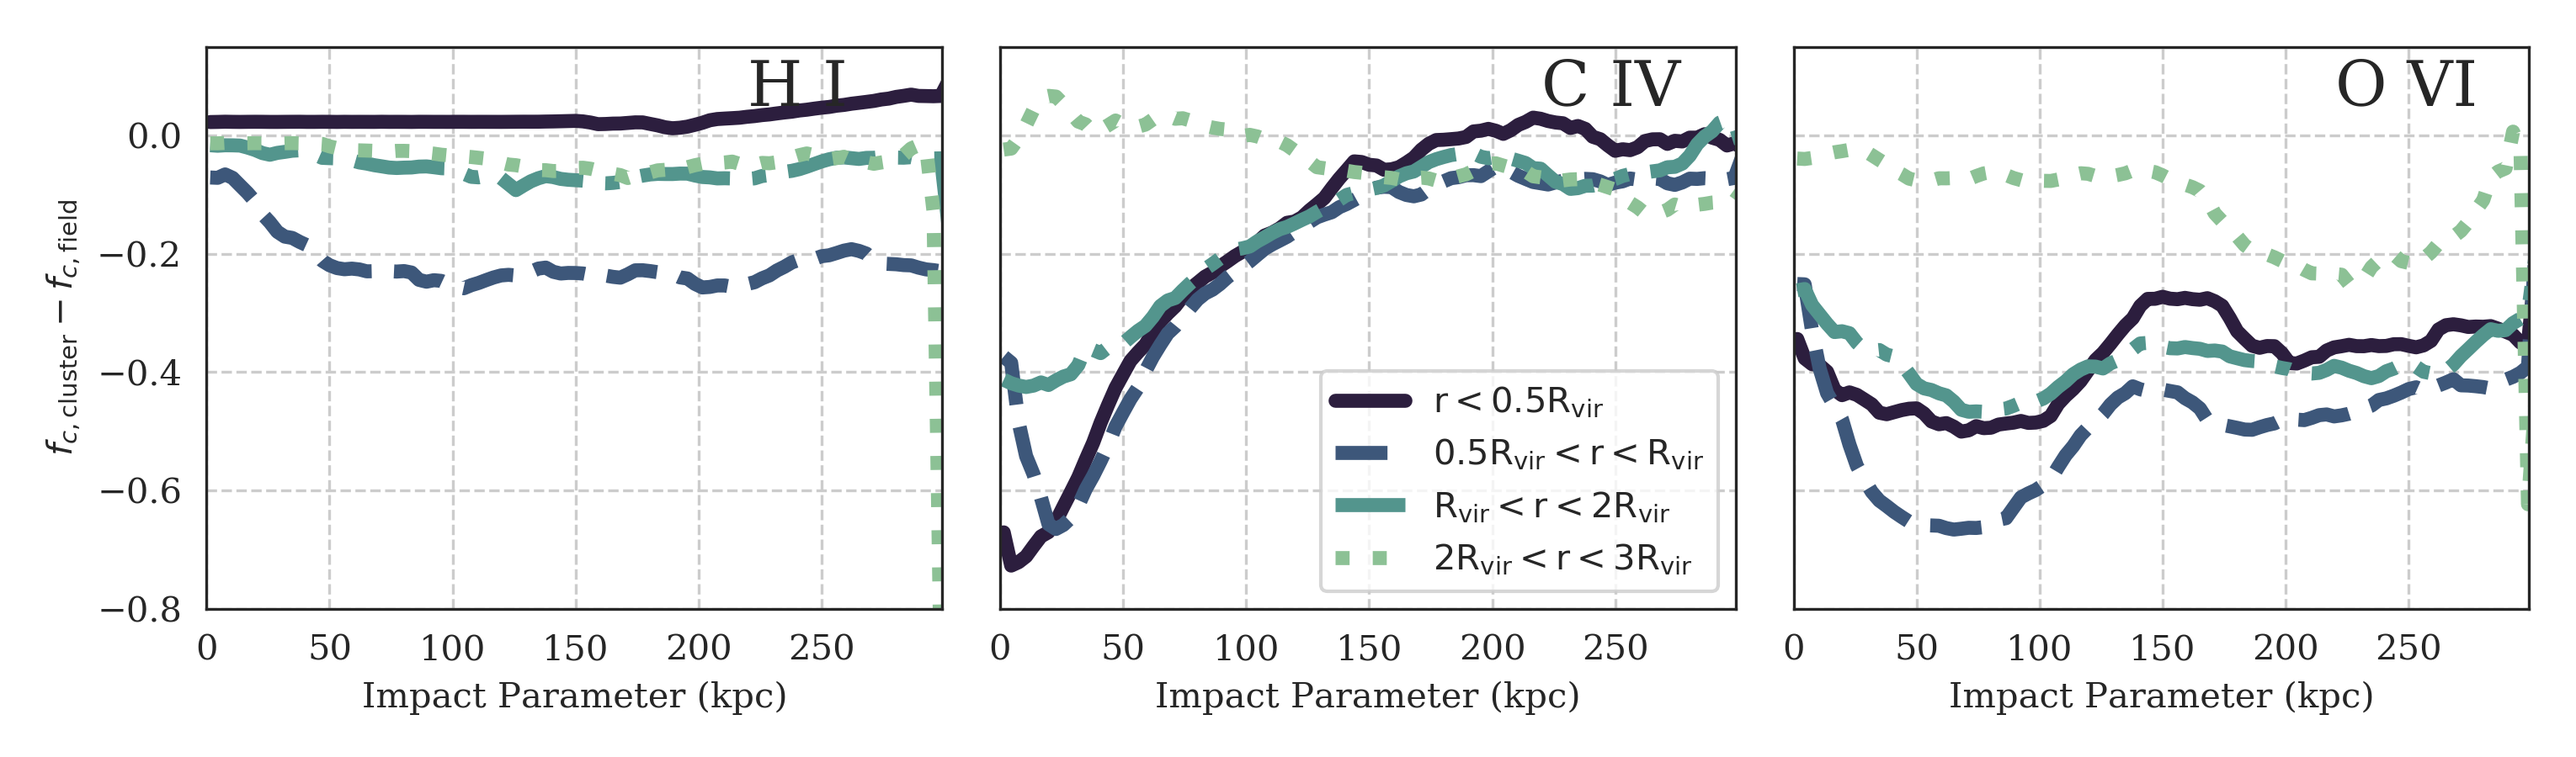
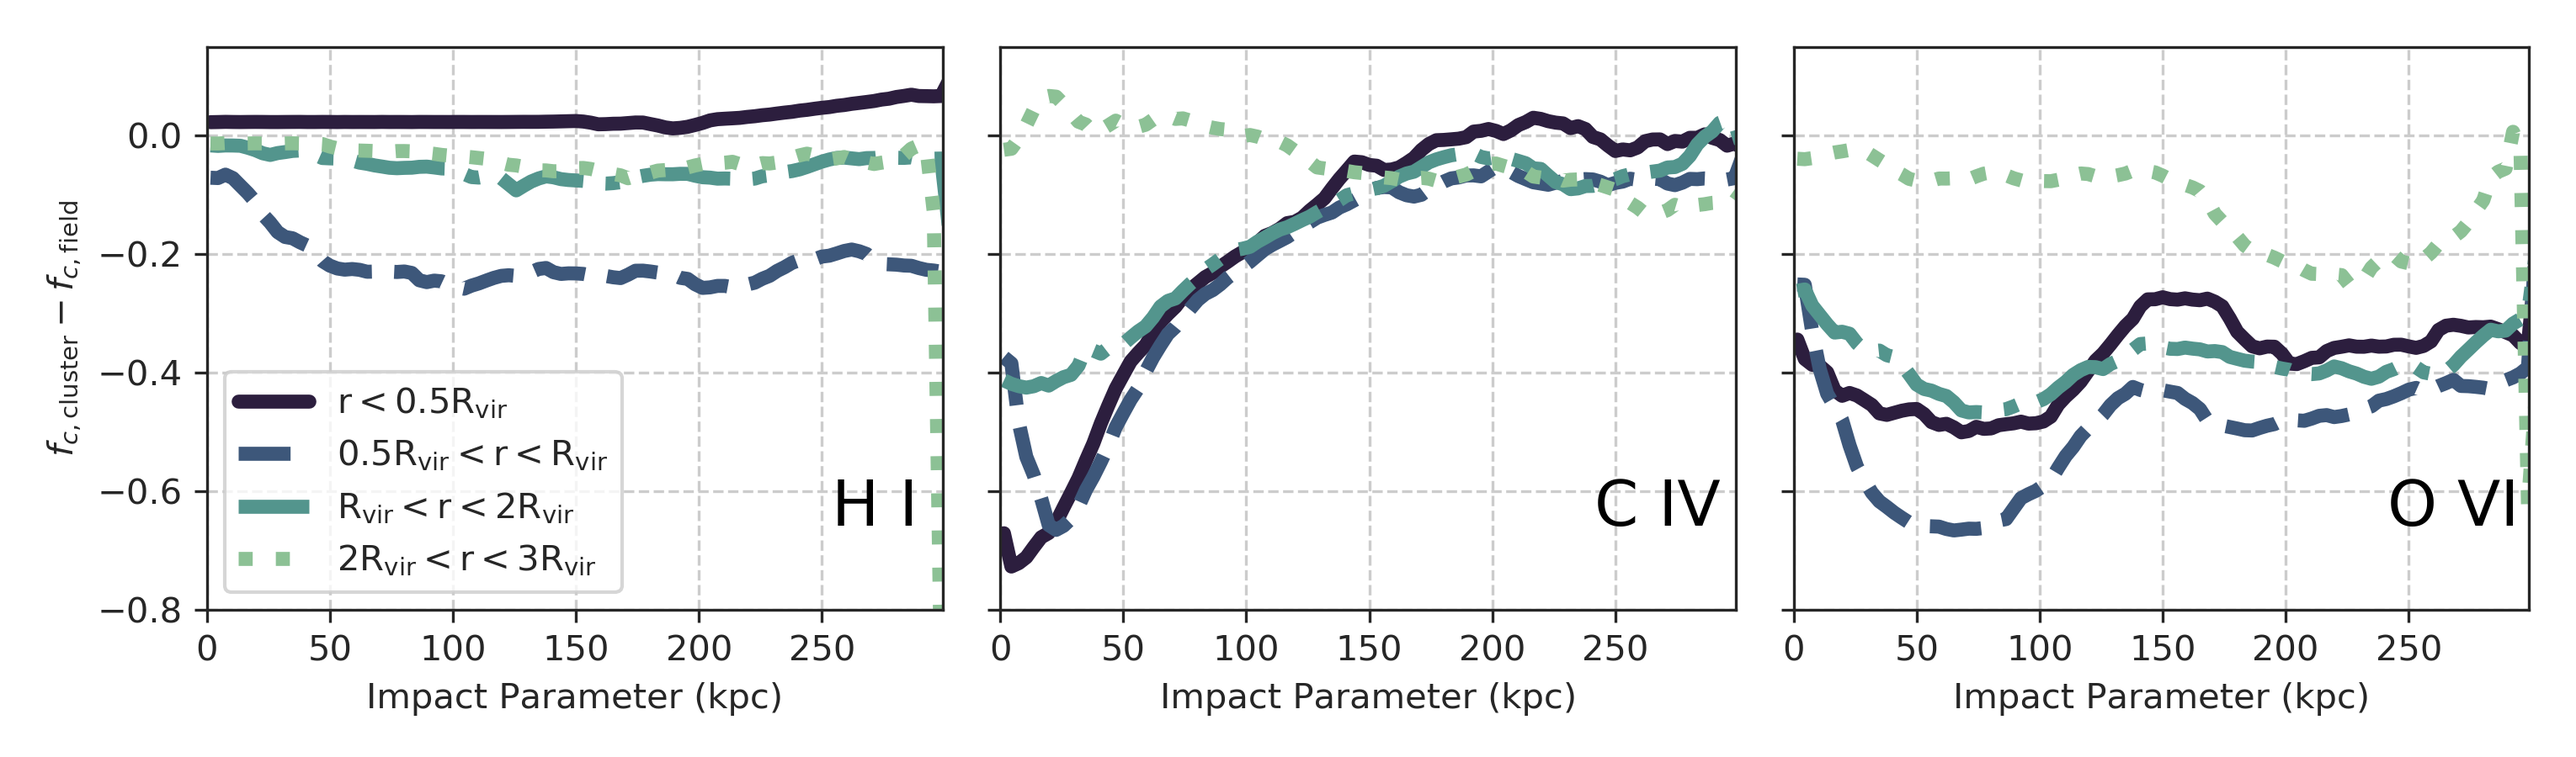
more changing figure aesthetics

diff --git a/plot_romulus_compare.py b/plot_romulus_compare.py
@@ -14,10 +14,12 @@ import ion_plot_definitions as ipd
 
 
 
-def multipanel_ion_plot(ion_list, plot_type, bin_type):
+def multipanel_ion_plot(output, ion_list, plot_type, bin_type):
 
-    romC_data = h5.File('/nobackup/ibutsky/data/YalePaper/%s.%06d_combined_halo_ion_profile_data_high_mass.h5'%('romulusC', 3035), 'r')
+    romC_data = h5.File('/nobackup/ibutsky/data/YalePaper/%s.%06d_combined_halo_ion_profile_data_high_mass.h5'%('romulusC', output), 'r')
     rom25_data = h5.File('/nobackup/ibutsky/data/YalePaper/%s.%06d_combined_halo_ion_profile_data_high_mass.h5'%('romulus25', 6069), 'r')
+#    romC_data = h5.File('/nobackup/ibutsky/data/YalePaper/%s.%06d_combined_halo_ion_profile_data.h5'%('romulusC', output), 'r')
+#    rom25_data = h5.File('/nobackup/ibutsky/data/YalePaper/%s.%06d_combined_halo_ion_profile_data.h5'%('romulus25', 6069), 'r')
     
     if len(ion_list) <= 4:
         nrows = 1
@@ -70,7 +72,7 @@ def multipanel_ion_plot(ion_list, plot_type, bin_type):
         if col == 0:
             ax.set_ylabel(ylabel)
         ax.set_xlim(0, 299)
-        
+        ax.set_ylim(-0.8, 0.15)
         counts = np.zeros(799**2)
         for pbin, pline, plabel, color in zip(plot_bins, linestyles, plot_labels, colors):
             romC_bins = romC_data['%s_%s_rbins'%(ion, pbin)][:]
@@ -87,21 +89,13 @@ def multipanel_ion_plot(ion_list, plot_type, bin_type):
                 diff_profile = romC_profile - rom25_profile
             ax.plot(romC_bins, diff_profile, color = color, linestyle = pline, linewidth = linewidth, label = plabel)
             
- #       if plot_type == 'column':
-#            ax.set_yscale('symlog')
-            #ylims = ipd.column_plot_ylims(ion)
-            #log_yrange = np.log10(ylims[1]) - np.log10(ylims[0])
-            #ax.annotate(ion_name, xy=(220, np.power(10, np.log10(ylims[0]) + 0.85*log_yrange)), fontsize=18)
 
-           # ax.set_ylim(ipd.column_plot_ylims(ion))
-           
-        if plot_type == 'cfrac':
-            ax.annotate(ion_name, xy=(220, 0.05), fontsize=18)
-            ax.set_ylim(-0.8, 0.15)
-        if row == 0 and col == 1:
-            ax.legend()
+        ipd.annotate_ion_name(ax, ion_name, y_factor = 0.15)
+
+        if row == 0 and col == 0:
+            ax.legend(loc = 'lower left')
         fig.tight_layout()
-        plt.savefig('romulus_compare_ion_%s.png'%(plot_type), dpi = 300)
+        plt.savefig('romulusC_%06d_compare_ion_%s.png'%(output, plot_type), dpi = 300)
         
         
 
@@ -112,7 +106,8 @@ ion_list = ['H I', 'C IV', 'O VI']
 
 plot_type = 'cfrac'
 bin_type = 'dist'
-multipanel_ion_plot(ion_list, plot_type, bin_type)
+output = int(sys.argv[1])
+multipanel_ion_plot(output, ion_list, plot_type, bin_type)
 
 
         

diff --git a/generate_halo_combined_column_data.py b/generate_halo_combined_column_data.py
@@ -20,6 +20,7 @@ def combine_halo_column_densities(sim, output, ion_list, rmax = 300, mask = None
     dist_list = halo_props['dist_to_cluster'].value
     cluster_rvir = halo_props['rvir'].value[0]
 
+
     halo_mask = (mstar_list > 1e9) & (mstar_list < 1e12) 
     if mask == 'high_mass':
         halo_mask = (mstar_list >= 1e10) & (mstar_list <= 1e12)
